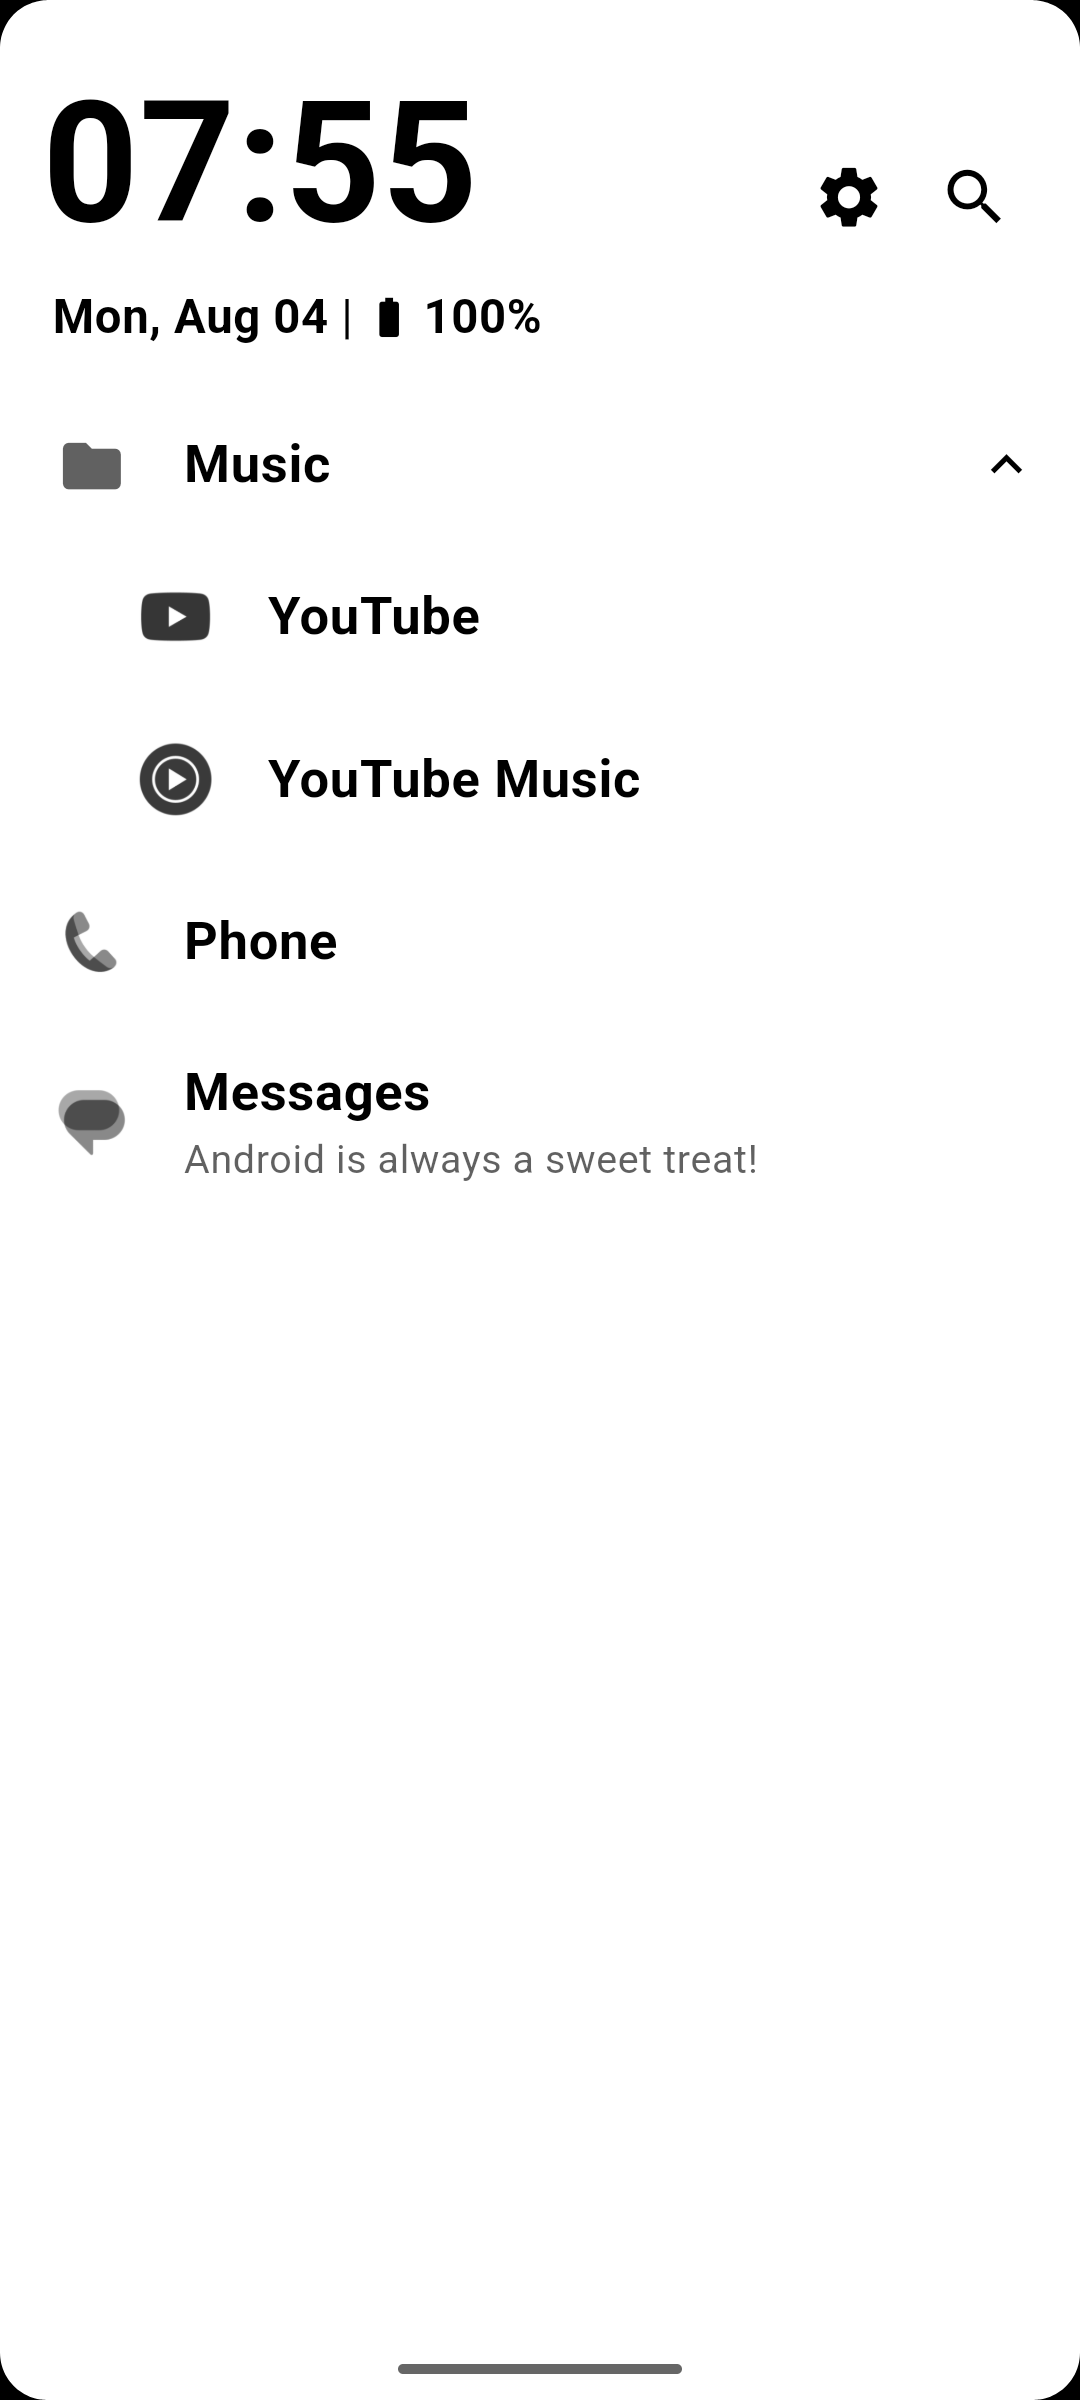
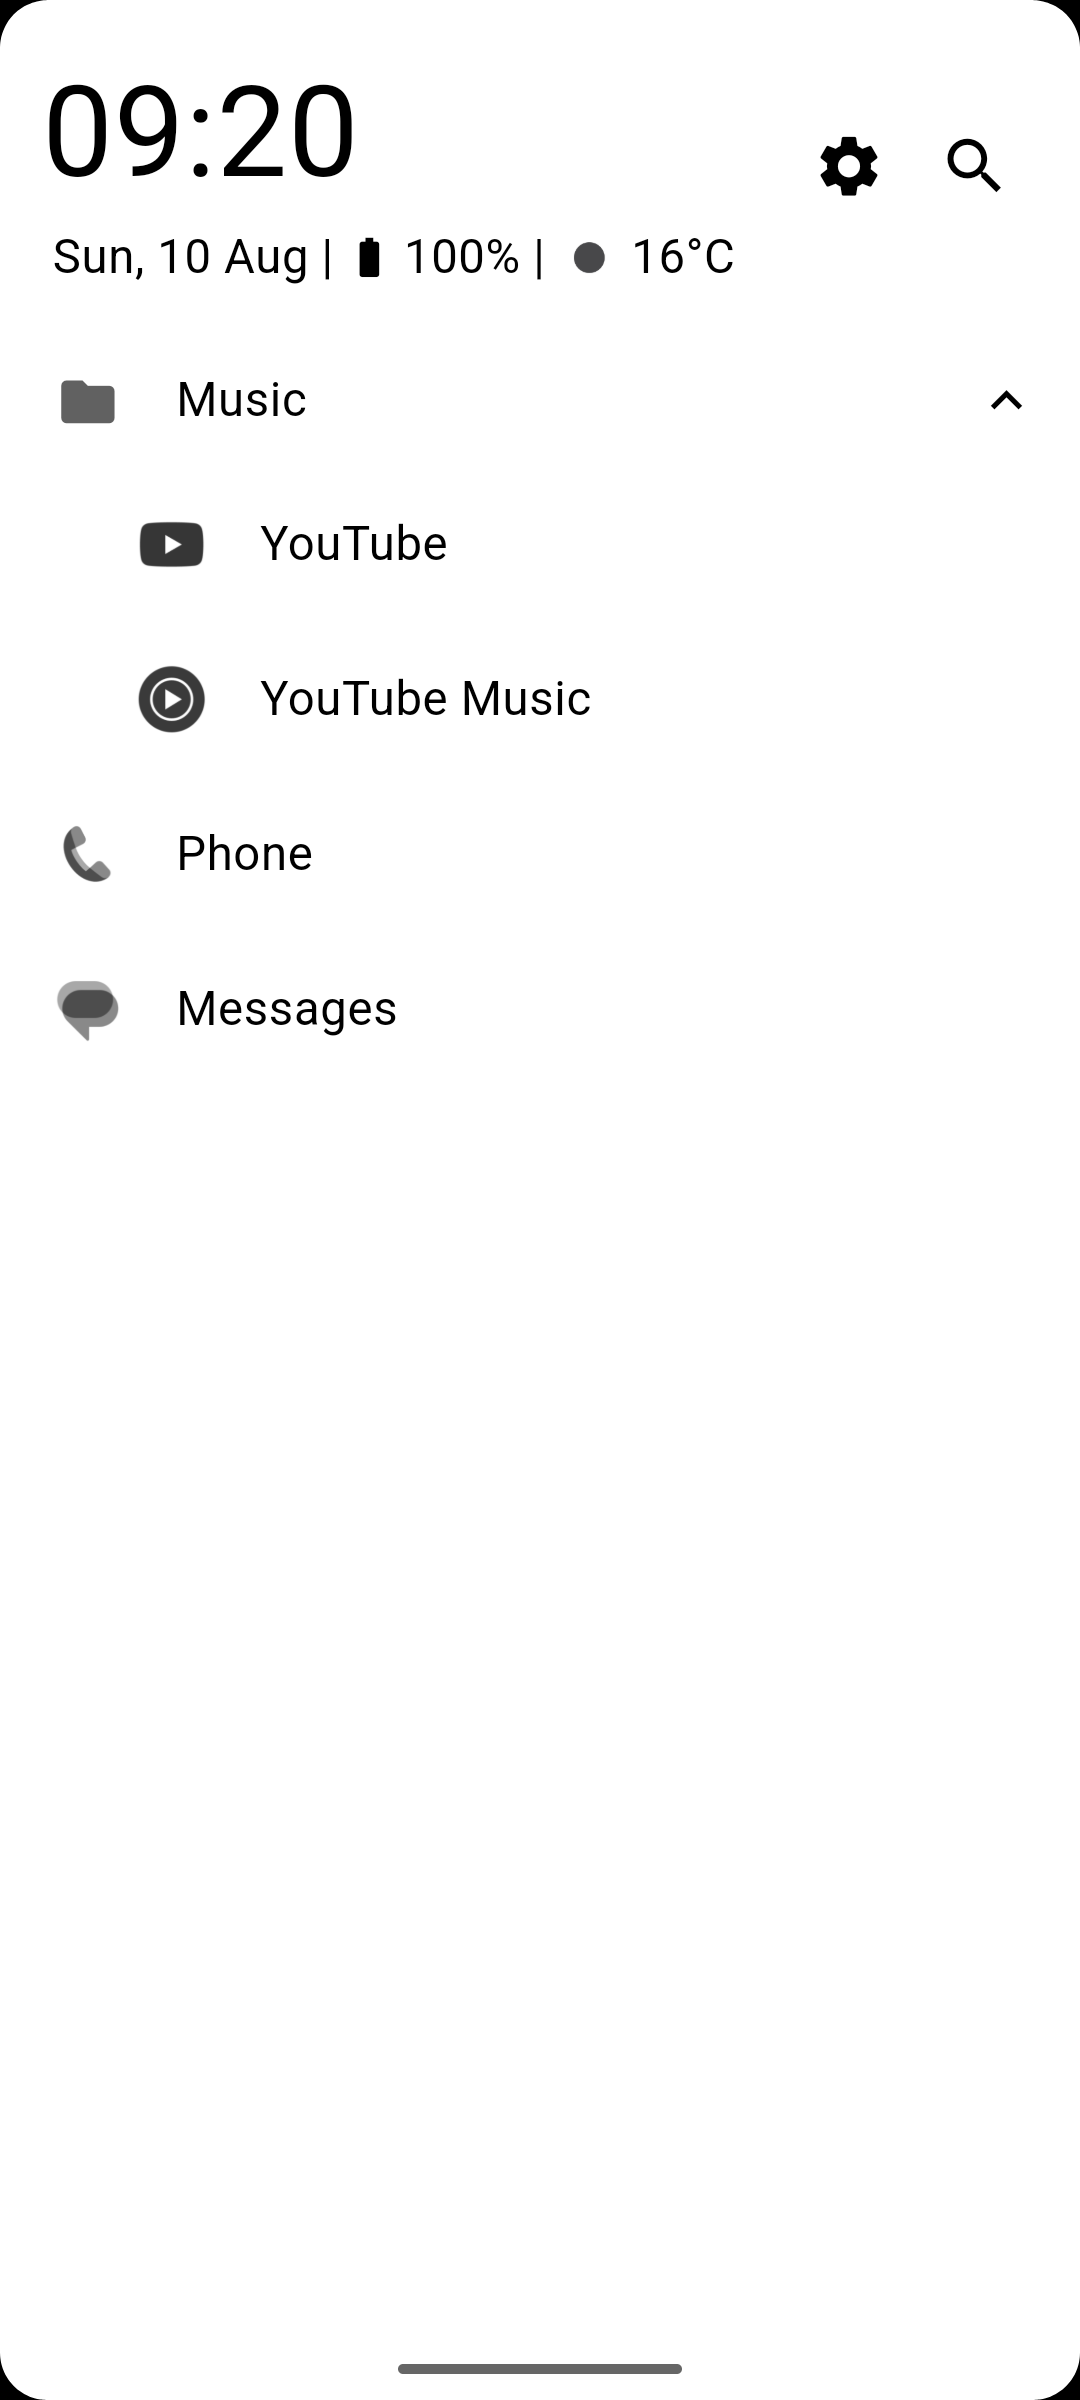
doc: - Update README.md

diff --git a/README.md b/README.md
@@ -6,19 +6,27 @@
 
 **Think Launcher** is a minimalist Android launcher designed specifically for **e-ink devices**. It prioritizes **simplicity**, **customization**, and uses only pure black and white tones and no animations.
 
-## Fork 🍴
+## Fork Changes 🍴
 
-- Changed date format
-- Added internalization support (English, Dutch)
-- Added icon for app list
-- Removed app grid support
-- Added notification support in app list
-- Added folder support
+- Feat: Changed date format
+- Feat: Added internalization support (English, Dutch)
+- Feat: Added icon for app list
+- Feat: Added notification support in app list
+- Feat: Added folder support
+- Feat: Weather support
+- Feat: Removed app grid, bold font & long press gesture support
+- Feat: Remove app limit
+- Feat: Automatic Save feature after changes in settings
+- Feat: Added Clear selected gesture app button
+- Feat: App & Folder long press dialog options
+- Bug: Fixed for uninstalled apps
 
 ## Screenshots 📷
 
 <p align="center">
   <img src="assets/home_screen.png" alt="Home" width="200"/>
+  <img src="assets/folder_options.png" alt="Folder Options" width="200"/>
+  <img src="assets/app_options.png" alt="App Options" width="200"/>
   <img src="assets/settings_screen.png" alt="Settings" width="200"/>
   <img src="assets/manage_folder_screen.png" alt="Columns View" width="200"/>
   <img src="assets/gestures_screen.png" alt="Gestures" width="200"/>
@@ -40,6 +48,7 @@
   - Notification support directly in the app list.
   - Folder support for organizing apps.
   - Gesture support for quick actions.
+  - Long tap for app & folder options.
 
 - **Search** 🔍
 
